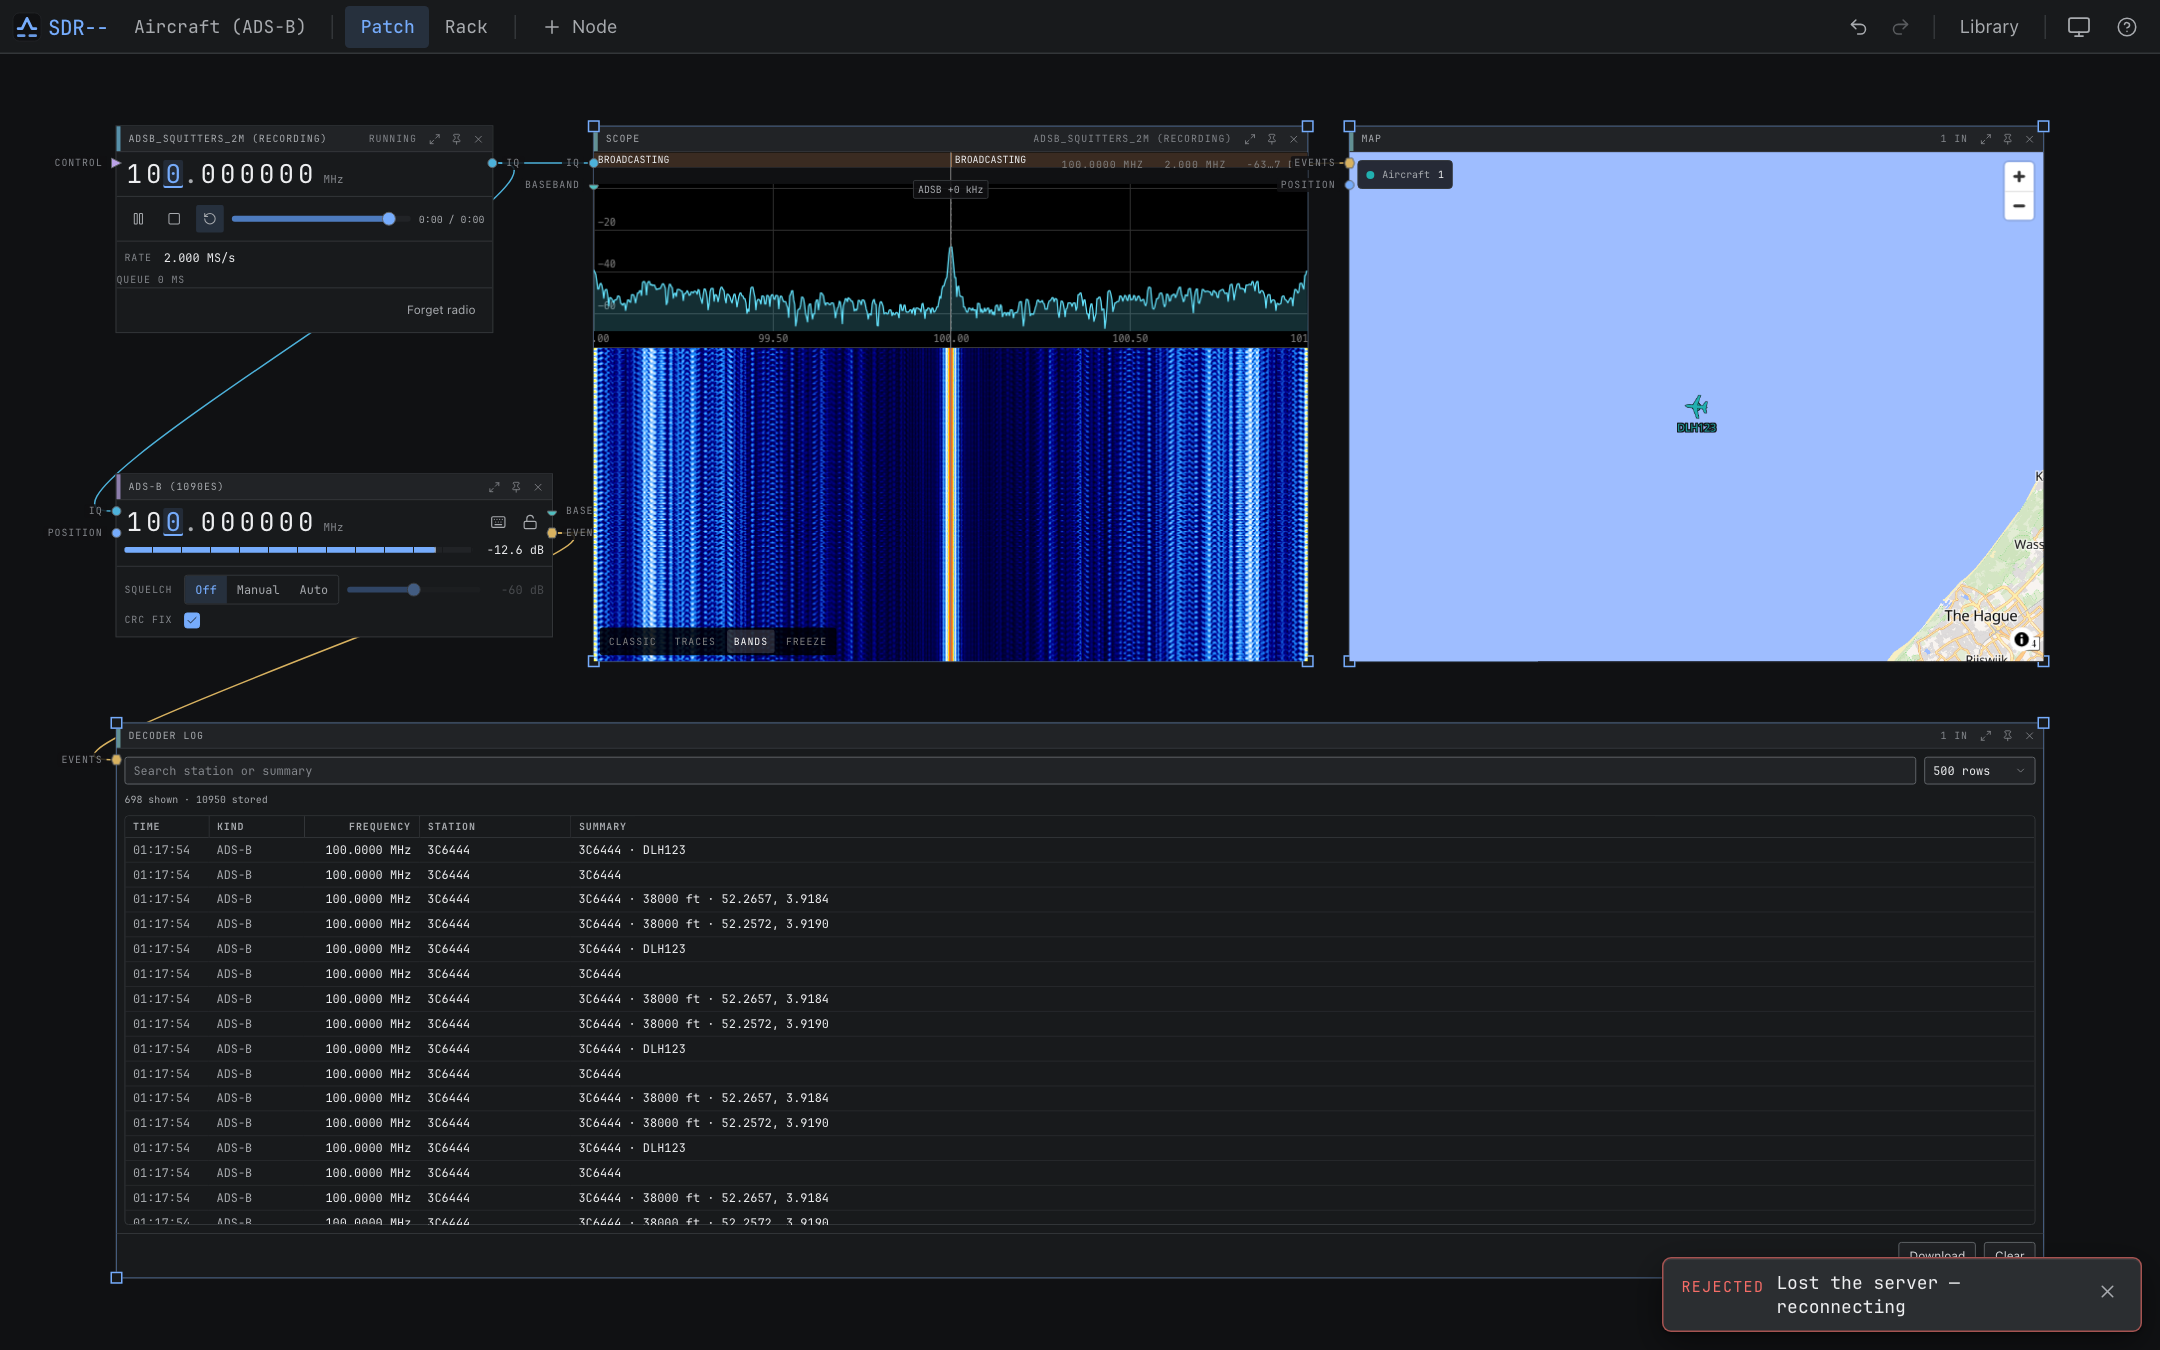
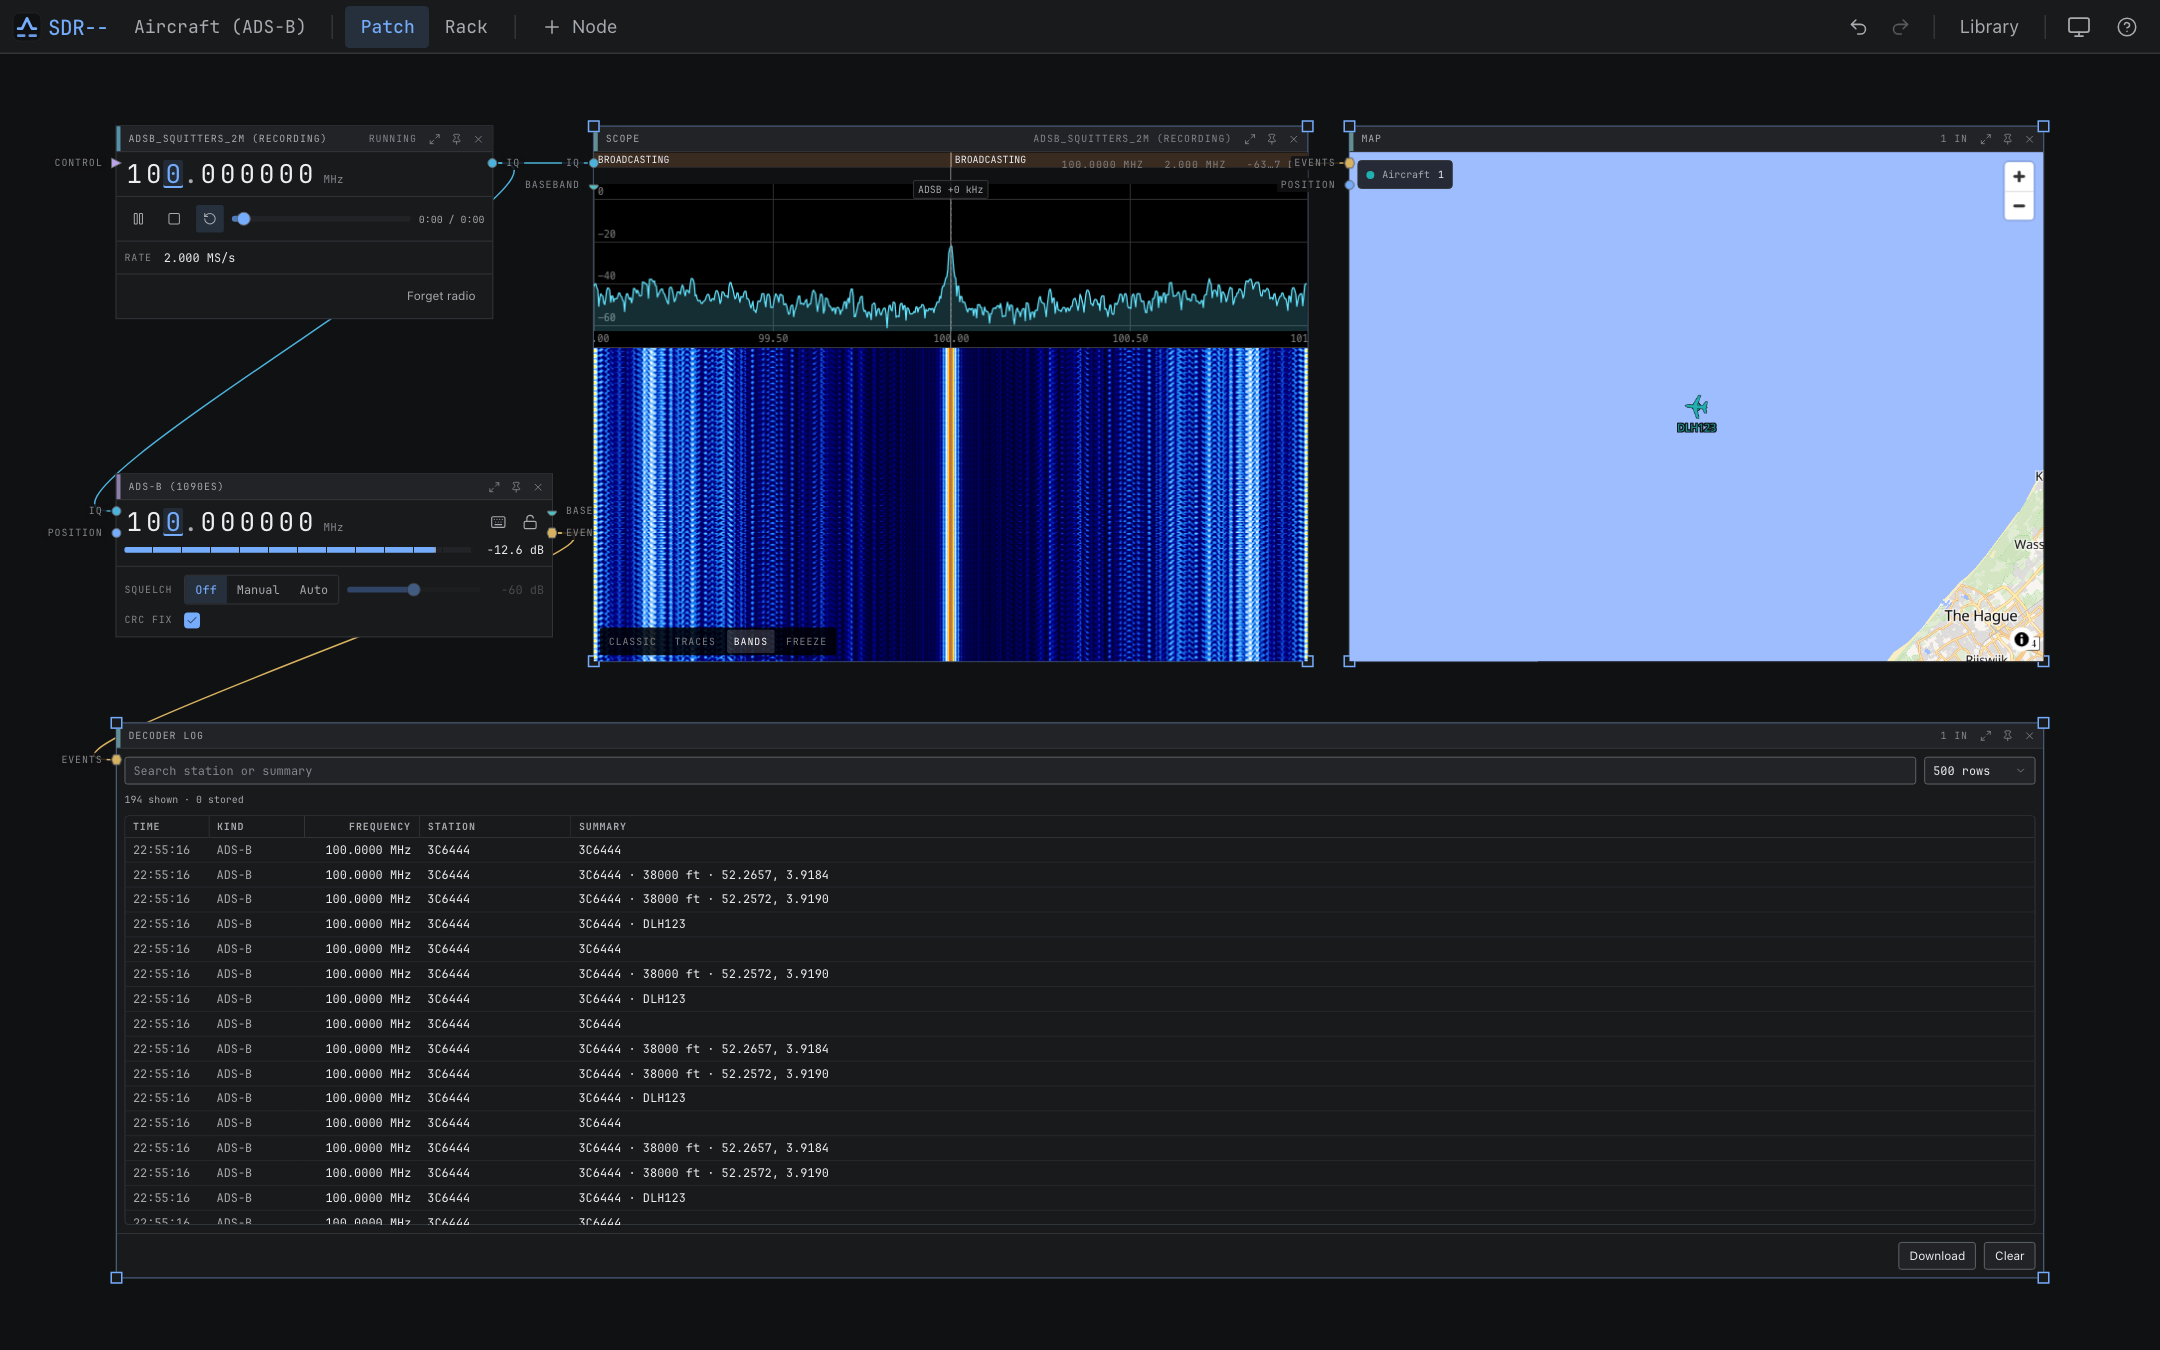
Fix Bug

diff --git a/web/src/components/Toasts.tsx b/web/src/components/Toasts.tsx
@@ -35,7 +35,7 @@ function ToastList() {
       >
         <Toast.Content className="flex items-start gap-2 p-2 pl-3">
           <span className={`legend pt-1 ${error ? "text-danger" : "text-ink-dim"}`}>
-            {error ? "Rejected" : "Note"}
+            {error ? "Error" : "Note"}
           </span>
           <Toast.Title className="min-w-0 flex-1 font-mono text-xs break-words text-ink">
             {toast.title}

diff --git a/crates/server/src/ws/outbox.rs b/crates/server/src/ws/outbox.rs
@@ -9,6 +9,7 @@ use sdrmm_wire::FrameKind;
 use tokio::sync::Notify;
 
 const CONTROL_LIMIT: usize = 64;
+const DECODED_LIMIT: usize = 1024;
 const BYTE_LIMIT: usize = 16 * 1024 * 1024;
 const FRAME_LIMIT: usize = 8 * 1024 * 1024;
 const AUDIO_AGE: Duration = Duration::from_millis(100);
@@ -23,15 +24,18 @@ struct Packet {
     queued: Instant,
     key: Option<(u8, u16)>,
     barrier: Option<u16>,
+    lossy: bool,
 }
 
 #[derive(Default)]
 struct Queue {
     control: VecDeque<Packet>,
+    decoded: VecDeque<Packet>,
     audio: VecDeque<Packet>,
     media: VecDeque<Packet>,
     bytes: usize,
     dropped: u64,
+    lost: u64,
     closed: bool,
     senders: usize,
 }
@@ -76,6 +80,14 @@ fn packet(message: Message) -> Packet {
         queued: Instant::now(),
         key,
         barrier,
+        lossy: false,
+    }
+}
+
+fn decoded_packet(message: Message) -> Packet {
+    Packet {
+        lossy: true,
+        ..packet(message)
     }
 }
 
@@ -109,6 +121,10 @@ impl Queue {
             return Err(());
         }
         self.expire(packet.queued);
+        if packet.lossy {
+            self.push_lossy(packet);
+            return Ok(());
+        }
         let len = packet.len();
         if packet.key.is_none() {
             if self.control.len() >= CONTROL_LIMIT || len > BYTE_LIMIT {
@@ -152,8 +168,33 @@ impl Queue {
         Ok(())
     }
 
+    fn push_lossy(&mut self, packet: Packet) {
+        let len = packet.len();
+        while self.decoded.len() >= DECODED_LIMIT || self.bytes + len > BYTE_LIMIT {
+            let Some(old) = self.decoded.pop_front() else {
+                self.forget_lossy();
+                return;
+            };
+            self.bytes -= old.len();
+            self.forget_lossy();
+        }
+        self.bytes += len;
+        self.decoded.push_back(packet);
+    }
+
+    fn forget_lossy(&mut self) {
+        self.dropped += 1;
+        self.lost += 1;
+    }
+
     fn pop(&mut self) -> Option<Message> {
         self.expire(Instant::now());
+        if self.lost > 0 {
+            let count = std::mem::take(&mut self.lost);
+            return Some(super::text_event(&sdrmm_wire::ServerEvent::DecodedLost {
+                count,
+            }));
+        }
         let control = self.control.iter().position(|p| {
             p.barrier.is_none_or(|id| {
                 !self
@@ -166,6 +207,7 @@ impl Queue {
         let packet = control
             .and_then(|index| self.control.remove(index))
             .or_else(|| self.audio.pop_front())
+            .or_else(|| self.decoded.pop_front())
             .or_else(|| self.media.pop_front())?;
         self.bytes -= packet.len();
         Some(packet.message)
@@ -190,6 +232,7 @@ impl Outbox {
         let oldest = queue
             .control
             .iter()
+            .chain(queue.decoded.iter())
             .chain(queue.audio.iter())
             .chain(queue.media.iter())
             .map(|packet| packet.queued)
@@ -203,12 +246,20 @@ impl Outbox {
     }
 
     pub(super) async fn send(&self, message: Message) -> Result<(), ()> {
+        self.enqueue(packet(message))
+    }
+
+    pub(super) async fn send_decoded(&self, message: Message) -> Result<(), ()> {
+        self.enqueue(decoded_packet(message))
+    }
+
+    fn enqueue(&self, packet: Packet) -> Result<(), ()> {
         let result = self
             .0
             .queue
             .lock()
             .unwrap_or_else(std::sync::PoisonError::into_inner)
-            .push(packet(message));
+            .push(packet);
         self.0.ready.notify_one();
         result
     }
@@ -358,6 +409,48 @@ mod tests {
                 .is_err()
         );
         assert!(queue.closed);
+    }
+
+    fn decoded(id: u8) -> Message {
+        Message::Text(format!(r#"{{"type":"Decoded","data":{id}}}"#).into())
+    }
+
+    #[test]
+    fn a_decoded_burst_sheds_its_oldest_records_instead_of_closing_the_connection() {
+        let mut queue = Queue::default();
+        let overshoot = 5;
+        for id in 0..DECODED_LIMIT + overshoot {
+            queue
+                .push(decoded_packet(decoded(id as u8)))
+                .expect("decoded records never congest the connection");
+        }
+        assert!(!queue.closed);
+
+        let lost = sdrmm_wire::ServerEvent::DecodedLost {
+            count: overshoot as u64,
+        };
+        assert_eq!(queue.pop(), Some(super::super::text_event(&lost)));
+        assert_eq!(queue.pop(), Some(decoded(overshoot as u8)));
+    }
+
+    #[test]
+    fn decoded_records_wait_behind_control_and_audio_but_lead_the_visuals() {
+        let mut queue = Queue::default();
+        queue
+            .push(packet(media(FrameKind::Spectrum, 1, 1)))
+            .expect("media");
+        queue.push(decoded_packet(decoded(9))).expect("decoded");
+        queue
+            .push(packet(media(FrameKind::AudioOpus, 2, 2)))
+            .expect("audio");
+        queue
+            .push(packet(Message::Text("control".into())))
+            .expect("control");
+
+        assert_eq!(queue.pop(), Some(Message::Text("control".into())));
+        assert_eq!(queue.pop(), Some(media(FrameKind::AudioOpus, 2, 2)));
+        assert_eq!(queue.pop(), Some(decoded(9)));
+        assert_eq!(queue.pop(), Some(media(FrameKind::Spectrum, 1, 1)));
     }
 
     #[test]

diff --git a/crates/server/src/ws.rs b/crates/server/src/ws.rs
@@ -748,7 +748,7 @@ fn spawn_decoded(
         loop {
             match decoded_rx.recv().await {
                 Ok(text) => {
-                    if out_tx.send(Message::Text(text)).await.is_err() {
+                    if out_tx.send_decoded(Message::Text(text)).await.is_err() {
                         break;
                     }
                 }
